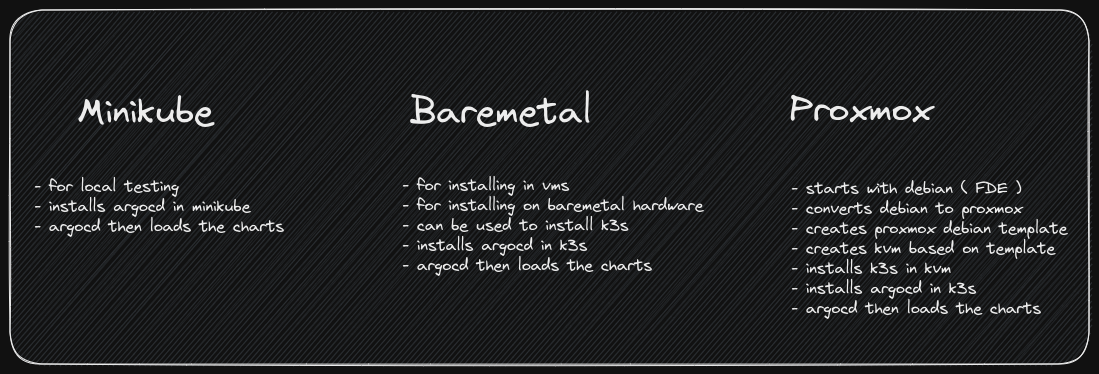
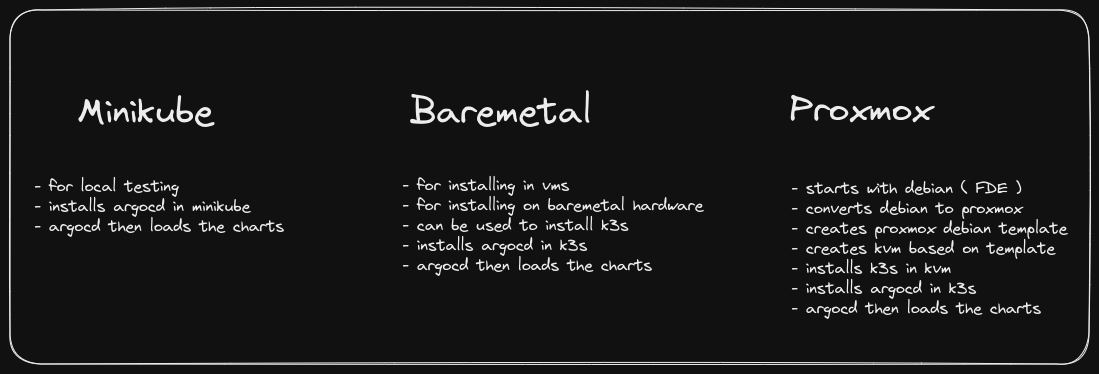
updated docs

diff --git a/docs/Excalidraw/three-choices.md b/docs/Excalidraw/three-choices.md
@@ -42,8 +42,8 @@ Minikube ^E6HB5i2B
 	"elements": [
 		{
 			"type": "rectangle",
-			"version": 164,
-			"versionNonce": 553191384,
+			"version": 165,
+			"versionNonce": 134188200,
 			"isDeleted": false,
 			"id": "n0wgANVJMFlWRWMNM3_X6",
 			"fillStyle": "hachure",
@@ -55,7 +55,7 @@ Minikube ^E6HB5i2B
 			"x": 676.9756513033992,
 			"y": -425.1821658615136,
 			"strokeColor": "#000000",
-			"backgroundColor": "#ced4da",
+			"backgroundColor": "transparent",
 			"width": 1079,
 			"height": 354,
 			"seed": 2046604456,
@@ -64,7 +64,7 @@ Minikube ^E6HB5i2B
 				"type": 3
 			},
 			"boundElements": [],
-			"updated": 1682547485418,
+			"updated": 1682547631220,
 			"link": null,
 			"locked": false
 		},
@@ -289,7 +289,7 @@ Minikube ^E6HB5i2B
 		"theme": "dark",
 		"viewBackgroundColor": "#ffffff",
 		"currentItemStrokeColor": "#000000",
-		"currentItemBackgroundColor": "#ced4da",
+		"currentItemBackgroundColor": "transparent",
 		"currentItemFillStyle": "hachure",
 		"currentItemStrokeWidth": 1,
 		"currentItemStrokeStyle": "solid",
